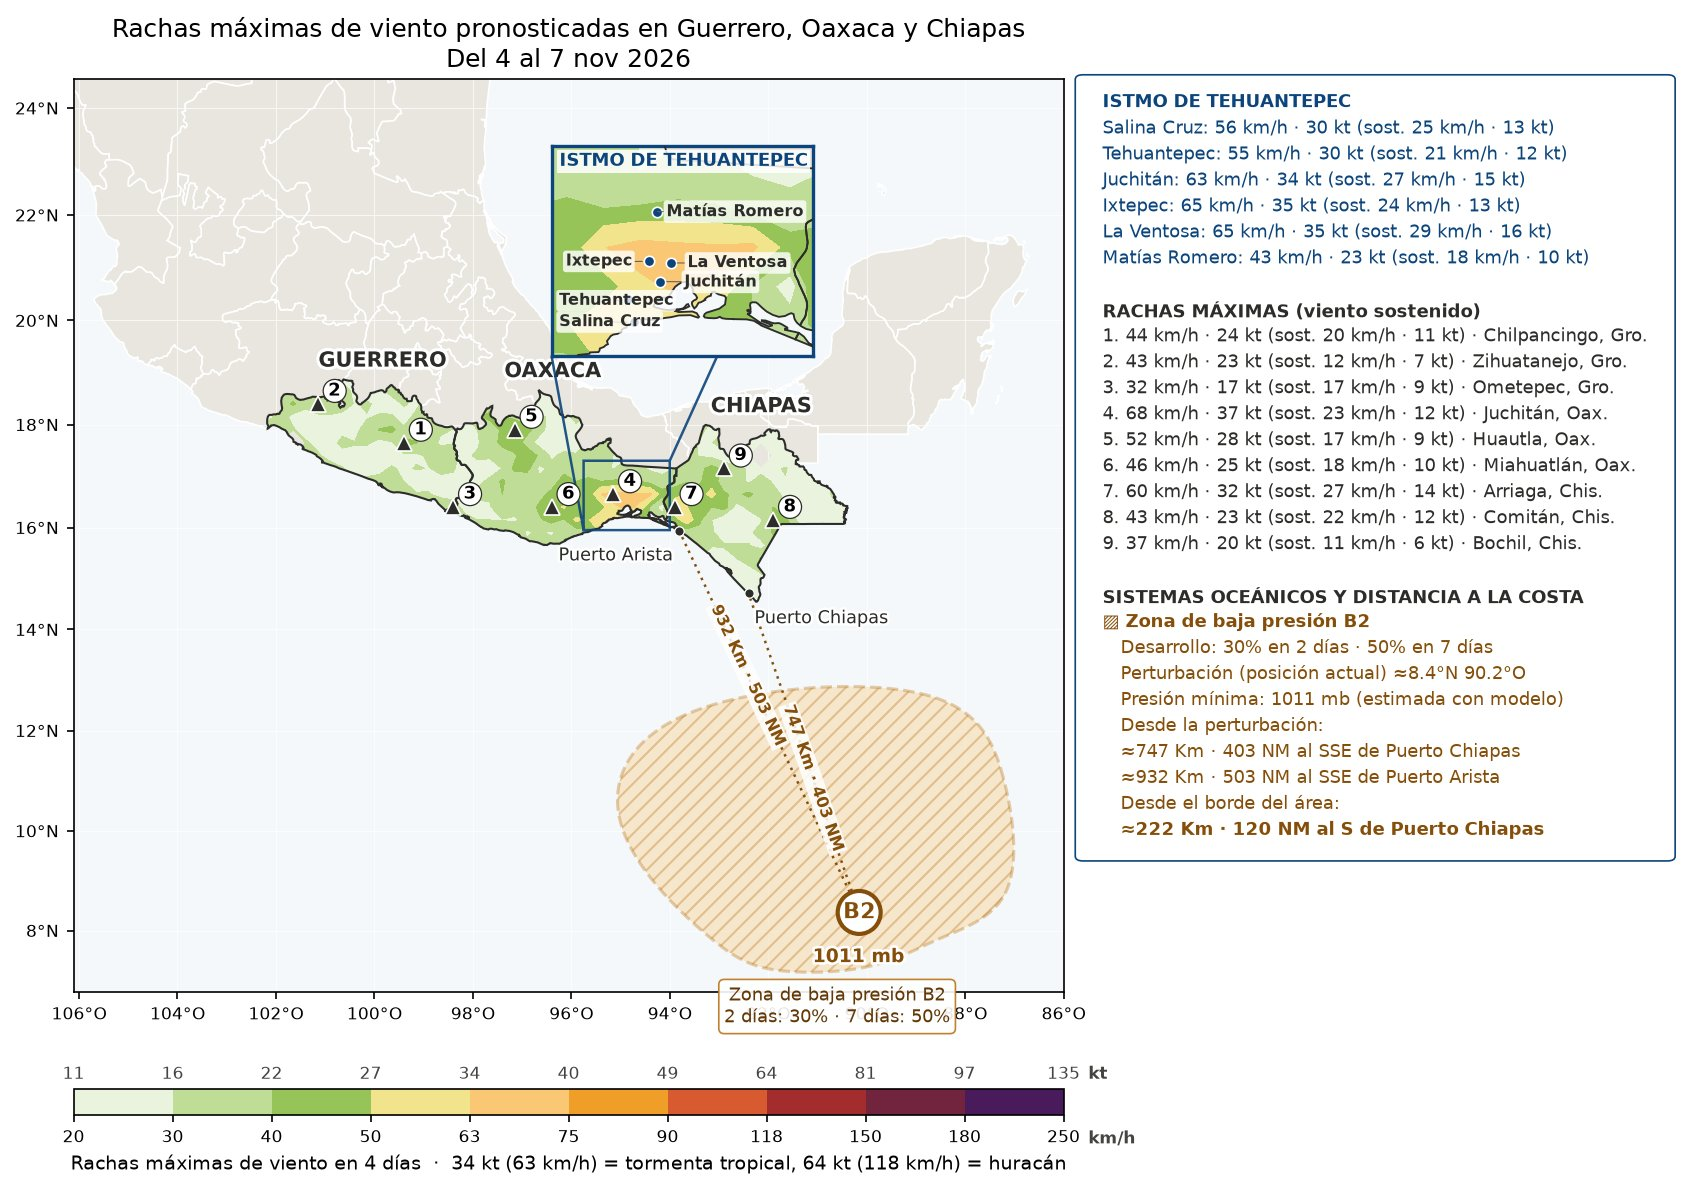
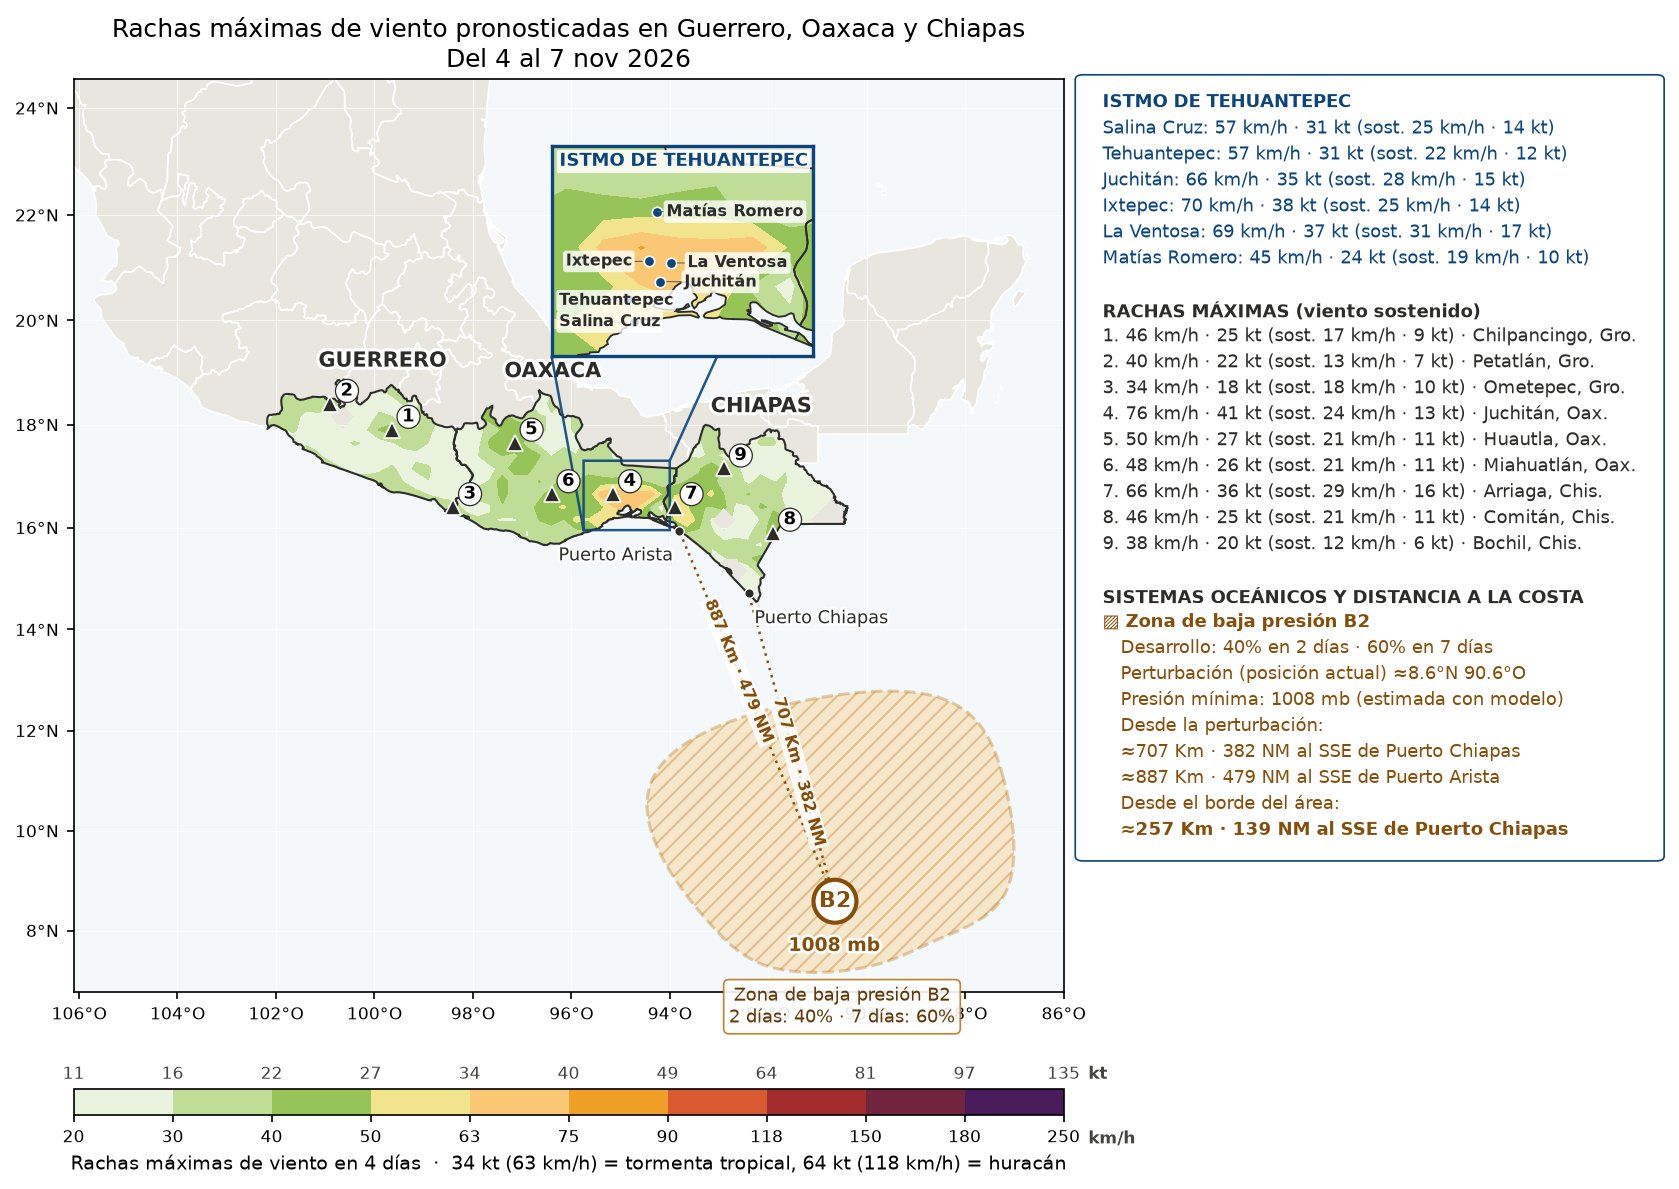
Monitor 04/11 17:41 (mapas nuevos)

diff --git a/index.html b/index.html
@@ -62,7 +62,7 @@ pre{overflow-x:auto;font-size:.75rem;background:var(--bg);padding:10px;border-ra
 <section class="t" id="sec_log"><details><summary>Registro (últimas líneas)</summary><pre id="log"></pre></details></section>
 </main>
 <div id="zoom"><img alt=""></div>
-<script id="datos" type="application/json">{"generado": "2026-11-04T13:47:08.106403", "ultima_revision": "2026-11-04T13:47:08.023603", "decision": "sin cambios", "ultima_imagen": "2026-11-04T12:27:16.763868", "motivo_imagen": "cambios acumulados en 3 h: zonas", "pendientes": [], "intervalo_h": 3, "resumen": {"ciclones": {}, "zonas": [{"lat": 8.4, "lon": -90.2, "n": "2", "p2": 30, "p7": 50}]}, "historial": [{"fecha": "2026-11-02T02:20:09.994969", "motivo": "cambios acumulados en 3 h: modelo"}, {"fecha": "2026-11-02T07:20:07.648113", "motivo": "cambios acumulados en 3 h: modelo"}, {"fecha": "2026-11-02T14:20:09.645554", "motivo": "cambios acumulados en 3 h: modelo"}, {"fecha": "2026-11-02T19:30:16.069134", "motivo": "cambios acumulados en 3 h: modelo"}, {"fecha": "2026-11-03T02:10:14.639375", "motivo": "cambios acumulados en 3 h: modelo"}, {"fecha": "2026-11-03T07:20:16.761479", "motivo": "cambios acumulados en 3 h: modelo"}, {"fecha": "2026-11-03T11:17:20.000309", "motivo": "CAMBIO SIGNIFICATIVO: nueva zona de baja presión (20% en 7 días)"}, {"fecha": "2026-11-03T14:30:37.479249", "motivo": "cambios acumulados en 3 h: modelo"}, {"fecha": "2026-11-03T17:37:19.483672", "motivo": "cambios acumulados en 3 h: zonas"}, {"fecha": "2026-11-03T20:50:07.581951", "motivo": "cambios acumulados en 3 h: modelo"}, {"fecha": "2026-11-03T23:17:16.041431", "motivo": "CAMBIO SIGNIFICATIVO: zona de baja presión: 10/30% → 20/40% (2/7 días)"}, {"fecha": "2026-11-04T02:30:17.814496", "motivo": "cambios acumulados en 3 h: modelo"}, {"fecha": "2026-11-04T06:07:16.699309", "motivo": "cambios acumulados en 3 h: zonas"}, {"fecha": "2026-11-04T09:20:08.184753", "motivo": "cambios acumulados en 3 h: modelo"}, {"fecha": "2026-11-04T12:27:16.763868", "motivo": "cambios acumulados en 3 h: zonas"}], "imagenes": {"lluvia": {"src": "lluvia.jpg?v=202611041227", "fecha": "2026-11-04T12:27:10.017009"}, "viento": {"src": "viento.jpg?v=202611041227", "fecha": "2026-11-04T12:27:15.129589"}}, "log": [], "umbral_av": 50, "umbral_mal": 110}</script>
+<script id="datos" type="application/json">{"generado": "2026-11-04T17:41:03.019319", "ultima_revision": "2026-11-04T17:41:02.935370", "decision": "imágenes generadas", "ultima_imagen": "2026-11-04T17:41:02.935370", "motivo_imagen": "CAMBIO SIGNIFICATIVO: zona de baja presión: 30/50% → 40/60% (2/7 días)", "pendientes": [], "intervalo_h": 3, "resumen": {"ciclones": {}, "zonas": [{"lat": 8.6, "lon": -90.6, "n": "2", "p2": 40, "p7": 60}]}, "historial": [{"fecha": "2026-11-02T07:20:07.648113", "motivo": "cambios acumulados en 3 h: modelo"}, {"fecha": "2026-11-02T14:20:09.645554", "motivo": "cambios acumulados en 3 h: modelo"}, {"fecha": "2026-11-02T19:30:16.069134", "motivo": "cambios acumulados en 3 h: modelo"}, {"fecha": "2026-11-03T02:10:14.639375", "motivo": "cambios acumulados en 3 h: modelo"}, {"fecha": "2026-11-03T07:20:16.761479", "motivo": "cambios acumulados en 3 h: modelo"}, {"fecha": "2026-11-03T11:17:20.000309", "motivo": "CAMBIO SIGNIFICATIVO: nueva zona de baja presión (20% en 7 días)"}, {"fecha": "2026-11-03T14:30:37.479249", "motivo": "cambios acumulados en 3 h: modelo"}, {"fecha": "2026-11-03T17:37:19.483672", "motivo": "cambios acumulados en 3 h: zonas"}, {"fecha": "2026-11-03T20:50:07.581951", "motivo": "cambios acumulados en 3 h: modelo"}, {"fecha": "2026-11-03T23:17:16.041431", "motivo": "CAMBIO SIGNIFICATIVO: zona de baja presión: 10/30% → 20/40% (2/7 días)"}, {"fecha": "2026-11-04T02:30:17.814496", "motivo": "cambios acumulados en 3 h: modelo"}, {"fecha": "2026-11-04T06:07:16.699309", "motivo": "cambios acumulados en 3 h: zonas"}, {"fecha": "2026-11-04T09:20:08.184753", "motivo": "cambios acumulados en 3 h: modelo"}, {"fecha": "2026-11-04T12:27:16.763868", "motivo": "cambios acumulados en 3 h: zonas"}, {"fecha": "2026-11-04T17:41:02.935370", "motivo": "CAMBIO SIGNIFICATIVO: zona de baja presión: 30/50% → 40/60% (2/7 días)"}], "imagenes": {"lluvia": {"src": "lluvia.jpg?v=202611041740", "fecha": "2026-11-04T17:40:55.693913"}, "viento": {"src": "viento.jpg?v=202611041741", "fecha": "2026-11-04T17:41:01.330970"}}, "log": [], "umbral_av": 50, "umbral_mal": 110}</script>
 <script>
 const D = JSON.parse(document.getElementById("datos").textContent);
 const $ = id => document.getElementById(id);
